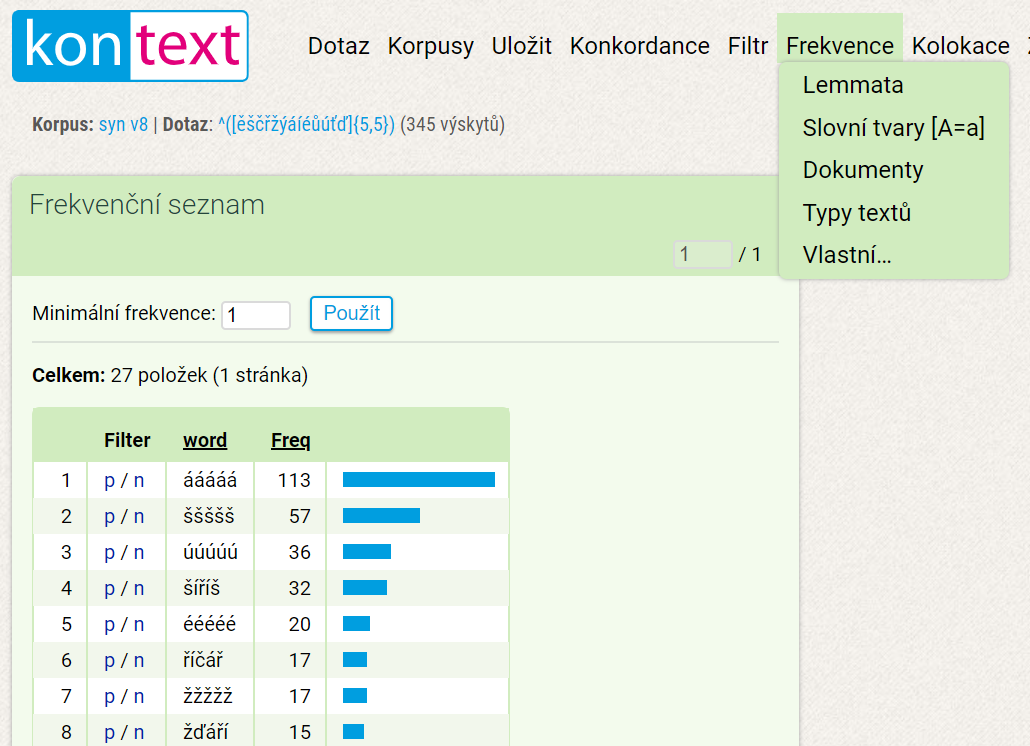
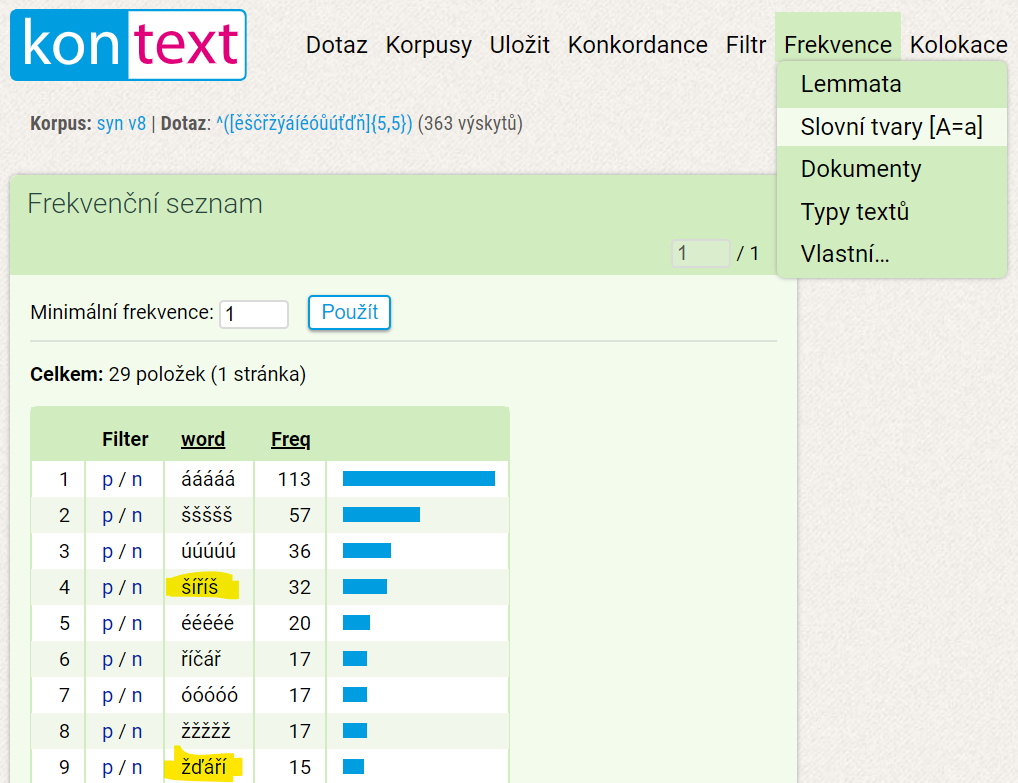
letters

diff --git a/input/posts/nejdelsi-ceske-slovo-obsahujici-pouze-pismena-s-diakritikou.md b/input/posts/nejdelsi-ceske-slovo-obsahujici-pouze-pismena-s-diakritikou.md
@@ -7,12 +7,12 @@ Tags:   [čeština]
 
 ## Číší šíříš
 
-Bádání jsem započal přemítáním a objevením slovo **číší**.
+Bádání jsem započal přemítáním a nalezením slova **číší**.
 Čtyři písmena mají i další slova: **říší**, **šíří**. Tvar slovesa šířit v druhé osobě přítomného času a jednotného čísla přidá k řešení další písmeno. **Šíříš** s pěti znaky je nejdelší slovo, na které jsem přišel pomyšlením. Na pokračování jsem přizval technologie.
 
 ## Hledání (v) seznamu slov
 
-V první fázi to byla snaha získat seznam všech českých slov ve všech možných tvarech. Nyní můžu prozradit, že kompletní seznam neexistuje. Není ani jasné, kolik takových slov je ([hovoří se](http://nase-rec.ujc.cas.cz/archiv.php?art=3932) o několik milionech). Nejblíže jsem se dostal ke slovníku z [LibreOffice](https://extensions.libreoffice.org/en/extensions/show/czech-dictionaries) (v kancelářském balíku slouží ke kontrole pravopisu). Po odzipování jsem otevřel soubor `cs_CZ.dic`, což je jednoduchý texťák, který na každém řádku obsahuje jeden tvar. Nejdříve jsem musel změnit kódování na ISO 8859-2, aby se místo diakritiky nezobrazovaly nesmysly. Slovník obsahuje 166 565 tvarů. Kompletní tedy rozhodně není. Navíc obsahuje i tvary, které by si zasloužili podtržení červenou vlnovkou (áách,abeba,atd...). Co je však nejhorší v kontextu hledání dlouhého diakritického slova – neobsahuje ani šíří, říší, či číší. Ještě jsem na to zkusil jít regulárním výrazem `^([ěščřžýáíéůúťď]{3,})/`. Ten koná toto: hledej všechny výrazy od jejich začátku (`^`) obsahující pouze diakritická písmena `[ěščřžýáíéůúťď]`. Slova musí mít počet znaků větší než 3 `{3,}` a končit lomítkem (`/` končí každý výraz ve slovníku, za ním je uvedena zkratka slovního druhu). Takováto slova jsou tam pouze 3 (číš, Číž, říš). Mimochodem slovo [říš](https://cs.wiktionary.org/wiki/%C5%99%C3%AD%C5%A1) je spisovný (básnický) tvar a číš, či Číž vede až do [morku kostí](http://nase-rec.ujc.cas.cz/archiv.php?art=1003). S LibreOffice slovníkem to však nebyl úplně marný pokus. Se změnou regulárního výrazu na `^([ěščřžýáíéůúťď]{4,})` najdeme taky 3 slova (pouze jsme změnil minimální počet znaků na 4 a odstranil lomítko). Čížův, šířící a žďáření. Právě poslední zmíněné vede ke vítězi této soutěže.
+V první fázi to byla snaha získat seznam všech českých slov ve všech možných tvarech. Nyní můžu prozradit, že kompletní seznam neexistuje. Není ani jasné, kolik takových slov je ([hovoří se](http://nase-rec.ujc.cas.cz/archiv.php?art=3932) o několik milionech). Nejblíže jsem se dostal ke slovníku z [LibreOffice](https://extensions.libreoffice.org/en/extensions/show/czech-dictionaries) (v kancelářském balíku slouží ke kontrole pravopisu). Po odzipování jsem otevřel soubor `cs_CZ.dic`, což je jednoduchý texťák, který na každém řádku obsahuje jeden tvar. Nejdříve jsem musel změnit kódování na ISO 8859-2, aby se místo diakritiky nezobrazovaly nesmysly. Slovník obsahuje 166 565 tvarů. Kompletní tedy rozhodně není. Navíc obsahuje i tvary, které by si zasloužili podtržení červenou vlnovkou (áách,abeba,atd...). Co je však nejhorší v kontextu hledání dlouhého diakritického slova – neobsahuje ani šíří, říší, či číší. Ještě jsem na to zkusil jít regulárním výrazem `^([ěščřžýáíéóůúťďň]{3,})/`. Ten koná následující: hledej všechny výrazy od jejich začátku (`^`) obsahující pouze diakritická písmena `[ěščřžýáíéóůúťďň]`. Slova musí mít počet znaků větší než 3 `{3,}` a končit lomítkem (`/` končí každý výraz ve slovníku, za ním je uvedena zkratka slovního druhu). Takováto slova jsou tam pouze 3 (číš, Číž, říš). Mimochodem slovo [říš](https://cs.wiktionary.org/wiki/%C5%99%C3%AD%C5%A1) je spisovný (básnický) tvar a číš, či Číž vede až do [morku kostí](http://nase-rec.ujc.cas.cz/archiv.php?art=1003). S LibreOffice slovníkem to však nebyl úplně marný pokus. Se změnou regulárního výrazu na `^([ěščřžýáíéóůúťďň]{4,})` najdeme taky 3 slova (pouze jsme změnil minimální počet znaků na 4 a odstranil lomítko). Čížův, šířící a žďáření. Právě poslední zmíněné vede ke vítězi této soutěže.
 
 ## Spásný korpus
 
@@ -20,7 +20,7 @@ Při hledání slovníku jsem se progůglil k Českému národnímu korpusu a po
 
 <img src="media/2020_korpus.png" alt="korpus" width="600"/>
 
-Slov o délce 5 obsahující pouze diakritická písmena [našel korpus](https://kontext.korpus.cz/freqs?ctxattrs=word&attr_vmode=mouseover&pagesize=40&refs=%3Ddoc.title&q=~g7nZ6VzK1bEW&viewmode=kwic&attrs=word&corpname=syn_v8&attr_allpos=all&fcrit=word%2Fie%200~0%3E0&flimit=1&freq_sort=&fpage=1&ftt_include_empty=) 345, většina z nich jsou však citoslovce. 
+Slov o délce 5 obsahující pouze diakritická písmena [našel korpus](https://kontext.korpus.cz/view?ctxattrs=word&attr_vmode=mouseover&pagesize=40&refs=%3Ddoc.title&q=~7wjGy2BIRzDU&viewmode=kwic&attrs=word&corpname=syn_v8&attr_allpos=all) 363, většina z nich jsou však citoslovce.
 
 Další funkci, kterou korpus nabízí je zobrazení pomocí frekvence výskytu. Sloučí to všechny ááááá a Ááááá a přehled se scvrkne na 27 položek.
 
@@ -30,7 +30,7 @@ Celkem vysoko se nachází **šíříš** a nově i **žďáří**, další slov
 
 ## Žďáříš !!!
 
-**žďáříš** s 6 znaky je dle mého bádání vítězem tohoto diakritického klání. Korpus však o tomto slovu mlčí a s regulárním výrazem `^([ěščřžýáíéůúťď]{6,})` (tedy 6 a více znaků) nalezneme pouze citoslovce.
+**žďáříš** s 6 znaky je dle mého bádání vítězem tohoto diakritického klání. Korpus však o tomto slovu mlčí a s regulárním výrazem `^([ěščřžýáíéóůúťďň]{6,})` (tedy 6 a více znaků) nalezneme pouze citoslovce.
 
 K dnešku (2020-07-24) jsou na Googlu pouze 2 záznamy tohoto slova. Jeden z [wiki slovníku](https://cs.wiktionary.org/wiki/%C5%BE%C4%8F%C3%A1%C5%99it) (důkaz, že žďáříš skutečně existuje) a druhé z jakéhosi přepisu prezentace.
 
